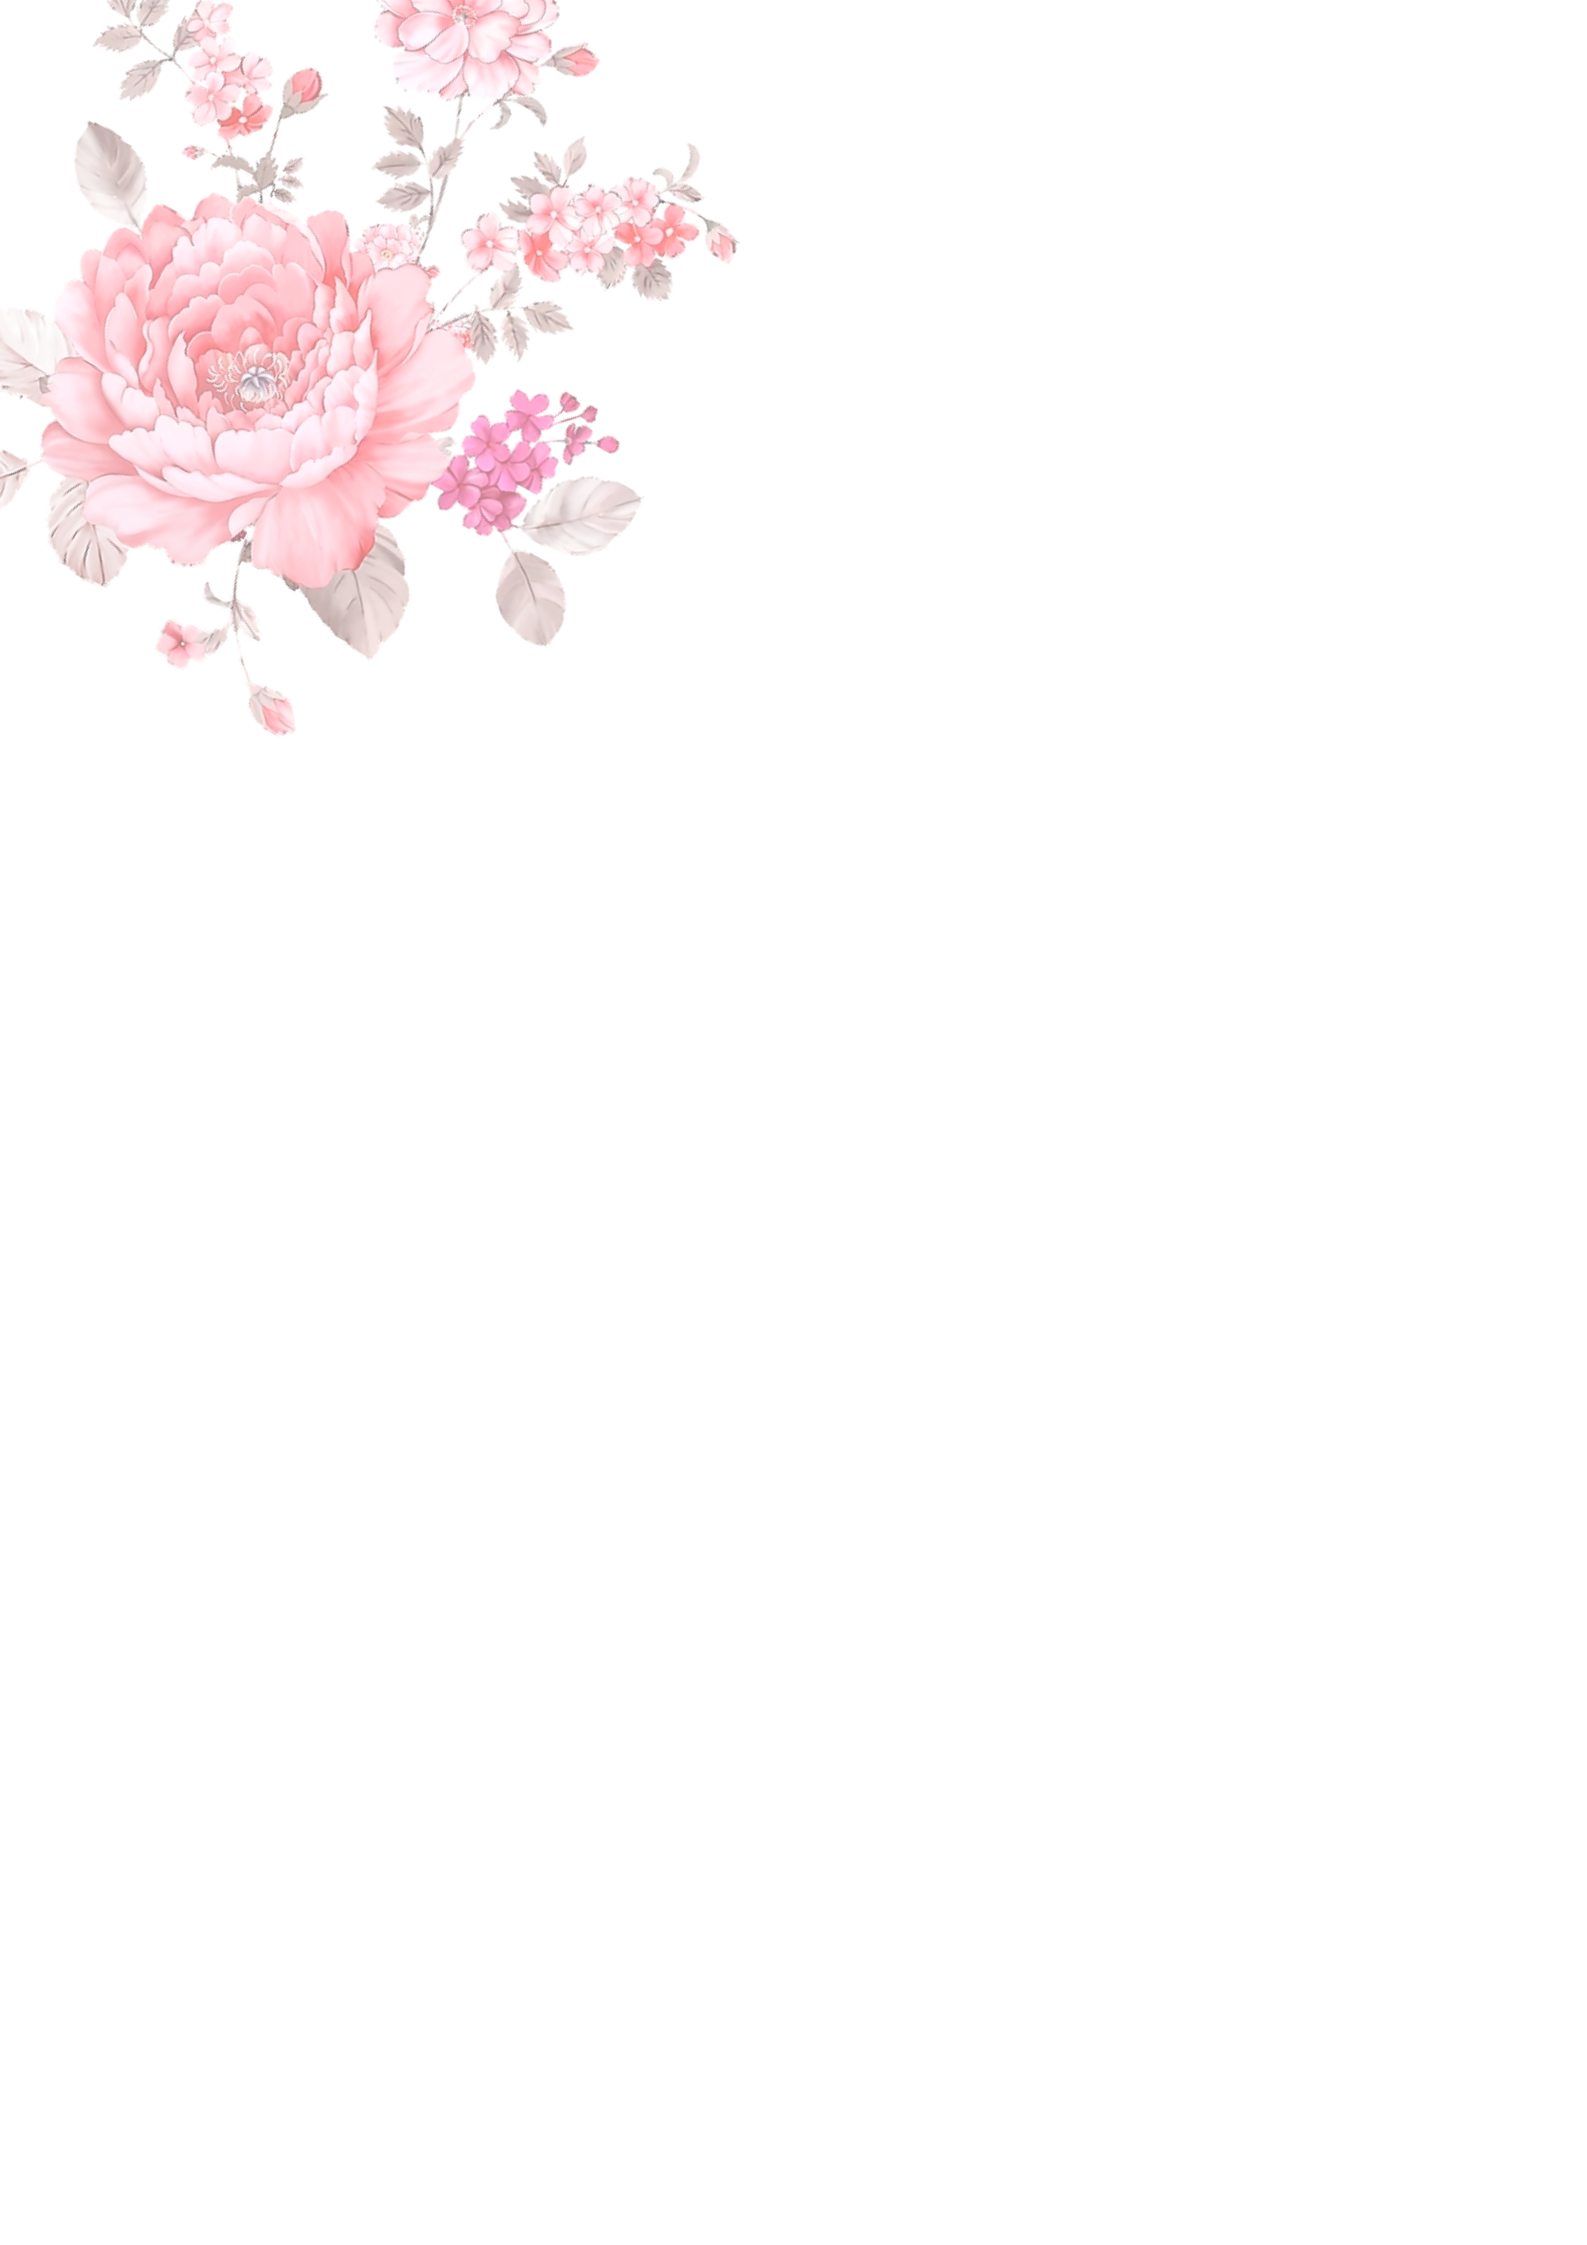
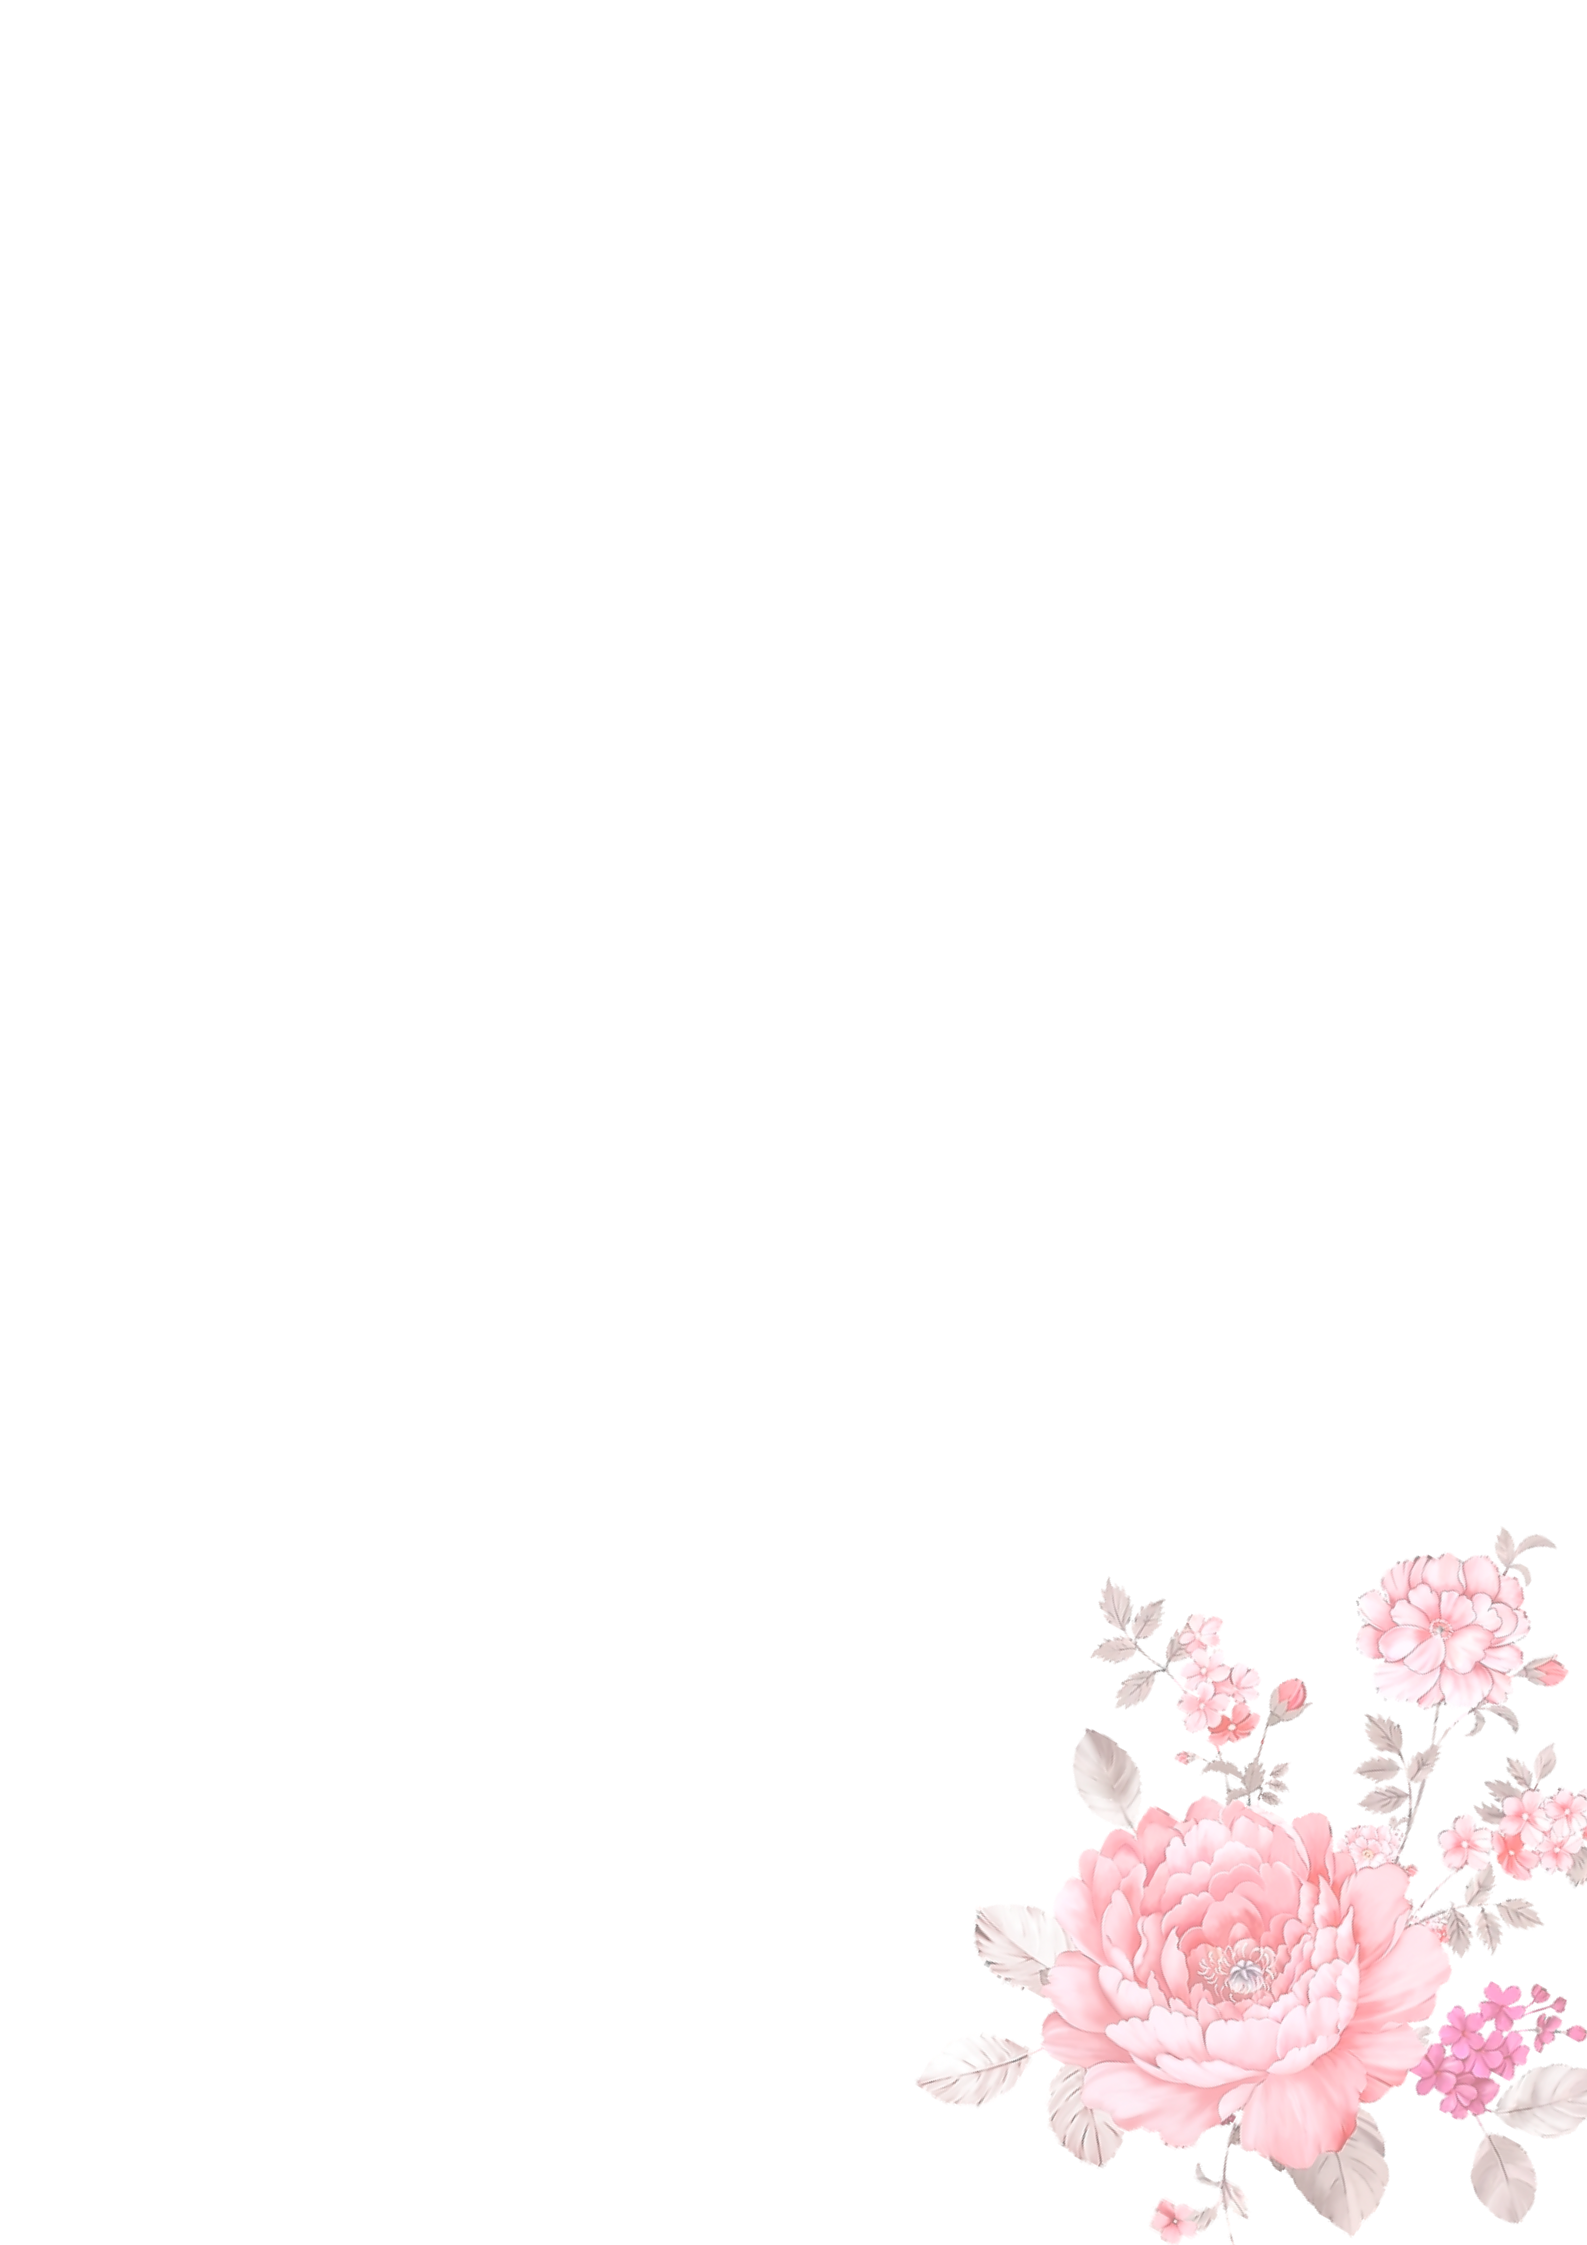
update

Changed region(s): [[0.0, 0.0, 0.4631, 0.343], [0.5866, 0.686, 1.0, 1.0]]

diff --git a/src/components/Hero.jsx b/src/components/Hero.jsx
@@ -26,7 +26,7 @@ export default function Hero() {
           BUNGA SUDUT KIRI ATAS
       ========================== */}
       <img
-        src="/images/hero-flower1.png"
+        src="/images/hero-flower2.png"
         alt=""
         className="
           absolute
@@ -37,6 +37,7 @@ export default function Hero() {
           md:w-96
           lg:w-96
           h-auto
+          scale-x-[-1]
           pointer-events-none
           select-none
           z-0
@@ -52,6 +53,49 @@ export default function Hero() {
         className="
           absolute
           top-0
+          right-0
+          w-68
+          sm:w-80
+          md:w-80
+          lg:w-80
+          h-auto
+          pointer-events-none
+          select-none
+          z-0
+        "
+      />
+
+            {/* =========================
+          BUNGA SUDUT BAWAH KIRI
+      ========================== */}
+      <img
+        src="/images/hero-flower1.png"
+        alt=""
+        className="
+          absolute
+          bottom-0
+          left-0
+          w-68
+          sm:w-80
+          md:w-80
+          lg:w-80
+          h-auto
+          scale-x-[-1]
+          pointer-events-none
+          select-none
+          z-0
+        "
+      />
+
+            {/* =========================
+          BUNGA SUDUT KANAN BAWAH
+      ========================== */}
+      <img
+        src="/images/hero-flower1.png"
+        alt=""
+        className="
+          absolute
+          bottom-0
           right-0
           w-68
           sm:w-80
@@ -120,7 +164,7 @@ export default function Hero() {
               md:text-4xl
               lg:text-5xl
               tracking-[0.25em]
-              text-white
+              text-red-400
             "
           >
             Happy
@@ -135,7 +179,7 @@ export default function Hero() {
               md:text-8xl
               lg:text-8xl
               leading-none
-              text-white
+              text-red-400
             "
           >
             Birthday
@@ -150,7 +194,7 @@ export default function Hero() {
               md:text-3xl
               lg:text-4xl
               tracking-wide
-              text-white
+              text-red-400
             "
           >
             Topik
@@ -175,7 +219,7 @@ export default function Hero() {
           text-sm
           sm:text-base
           tracking-[0.2em]
-          text-white
+          text-red-400
           cursor-pointer
         "
       >
